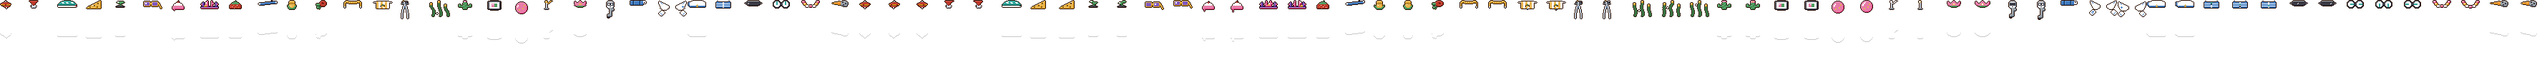
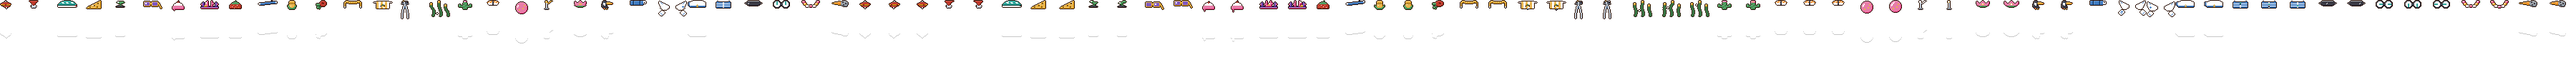
fix(costumes): two clearer costumes of the day, and the checker's --preview path
- 06-18 Sushi Day is a salmon nigiri; the end-on maki read as a screen
- 06-22 Rainforest Day is a toucan; the draped sloth read as a robot
- check_costume.py skips the --preview path by position, so a path
  written with other slashes is no longer read as a spec
- ART.md: the calendar does not follow southern_seasons

diff --git a/tools/check_costume.py b/tools/check_costume.py
@@ -411,11 +411,12 @@ def check(specs: list[tuple[Path, dict]], stage: Stage) -> dict[str, dict]:
 
 
 def main(argv: list[str]) -> int:
-    args = [a for a in argv if not a.startswith("--")]
     out = None
-    if "--preview" in argv:
+    if "--preview" in argv and argv.index("--preview") + 1 < len(argv):
         out = Path(argv[argv.index("--preview") + 1])
-        args.remove(str(out)) if str(out) in args else None
+    # Skipped by position: the preview path is never a spec, however its slashes were written.
+    args = [a for i, a in enumerate(argv)
+            if not a.startswith("--") and not (i and argv[i - 1] == "--preview")]
     quiet = "--quiet" in argv
     if not args:
         print(__doc__)

diff --git a/docs/ART.md b/docs/ART.md
@@ -113,7 +113,9 @@ themed on the season they fall in, and no two days share an idea.
 It is the season rule made more specific, not a timer. The same date always gets the same
 costume, so it is still something you can reason about — "it's the fourteenth of March, so he's
 got the pi hat on" — and next year he wears it again. Movable feasts (Easter, Lunar New Year,
-Diwali, Eid, Thanksgiving) do not land on one date, so none of them is pinned to one.
+Diwali, Eid, Thanksgiving) do not land on one date, so none of them is pinned to one. The calendar
+is drawn for the northern hemisphere and, unlike the season fallback, does not flip with
+`southern_seasons`: south of the equator he will still wear a frosty-morning costume in January.
 
 | | |
 | --- | --- |
